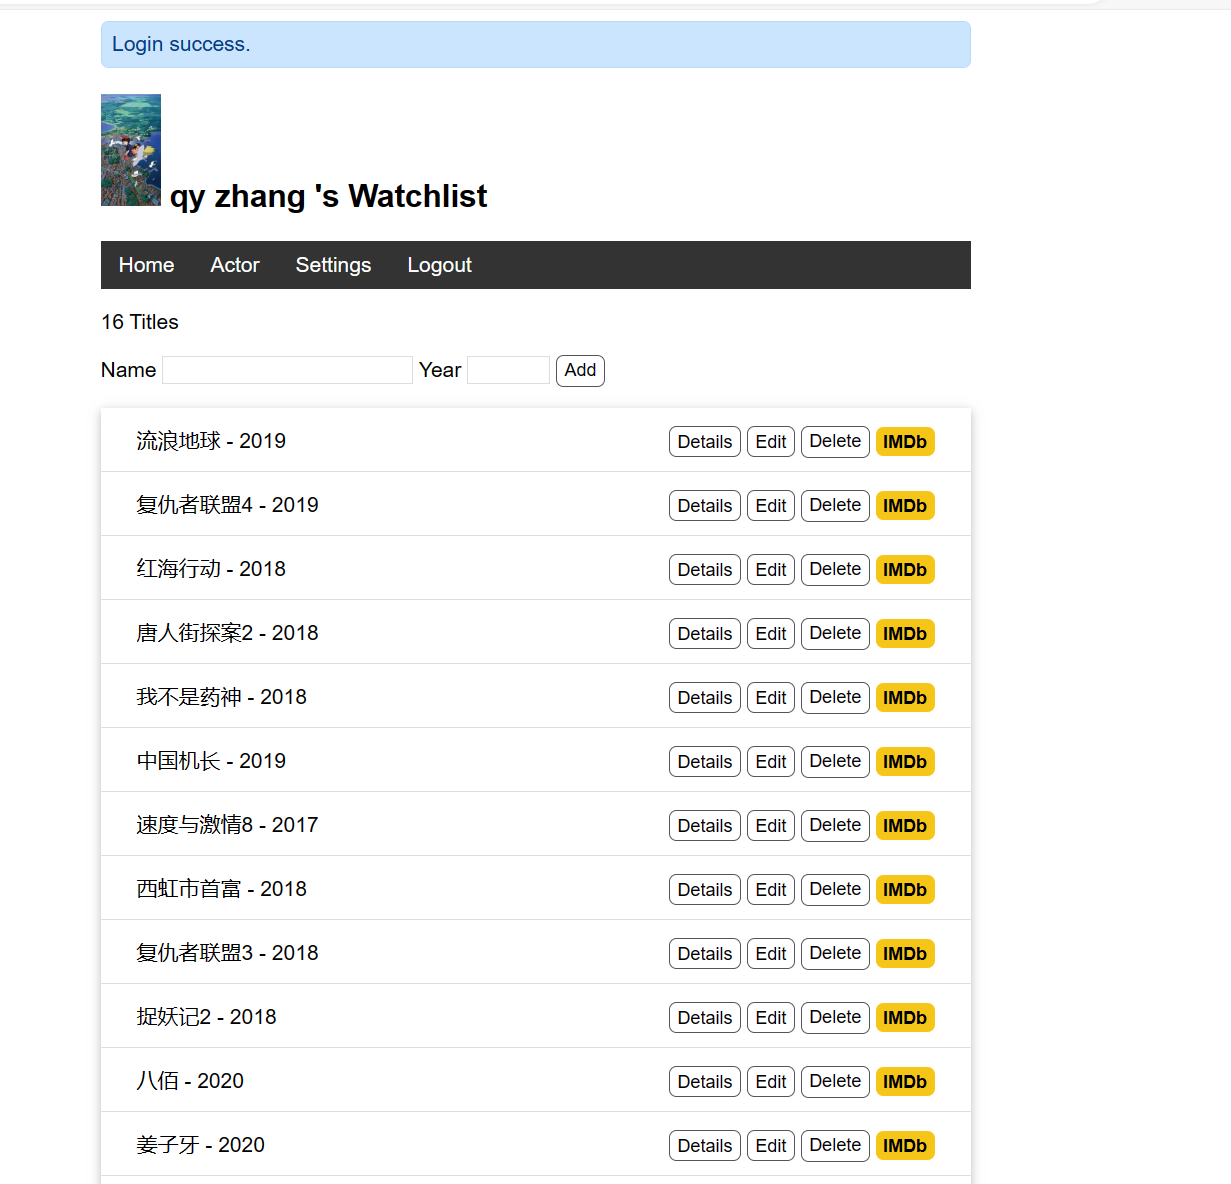
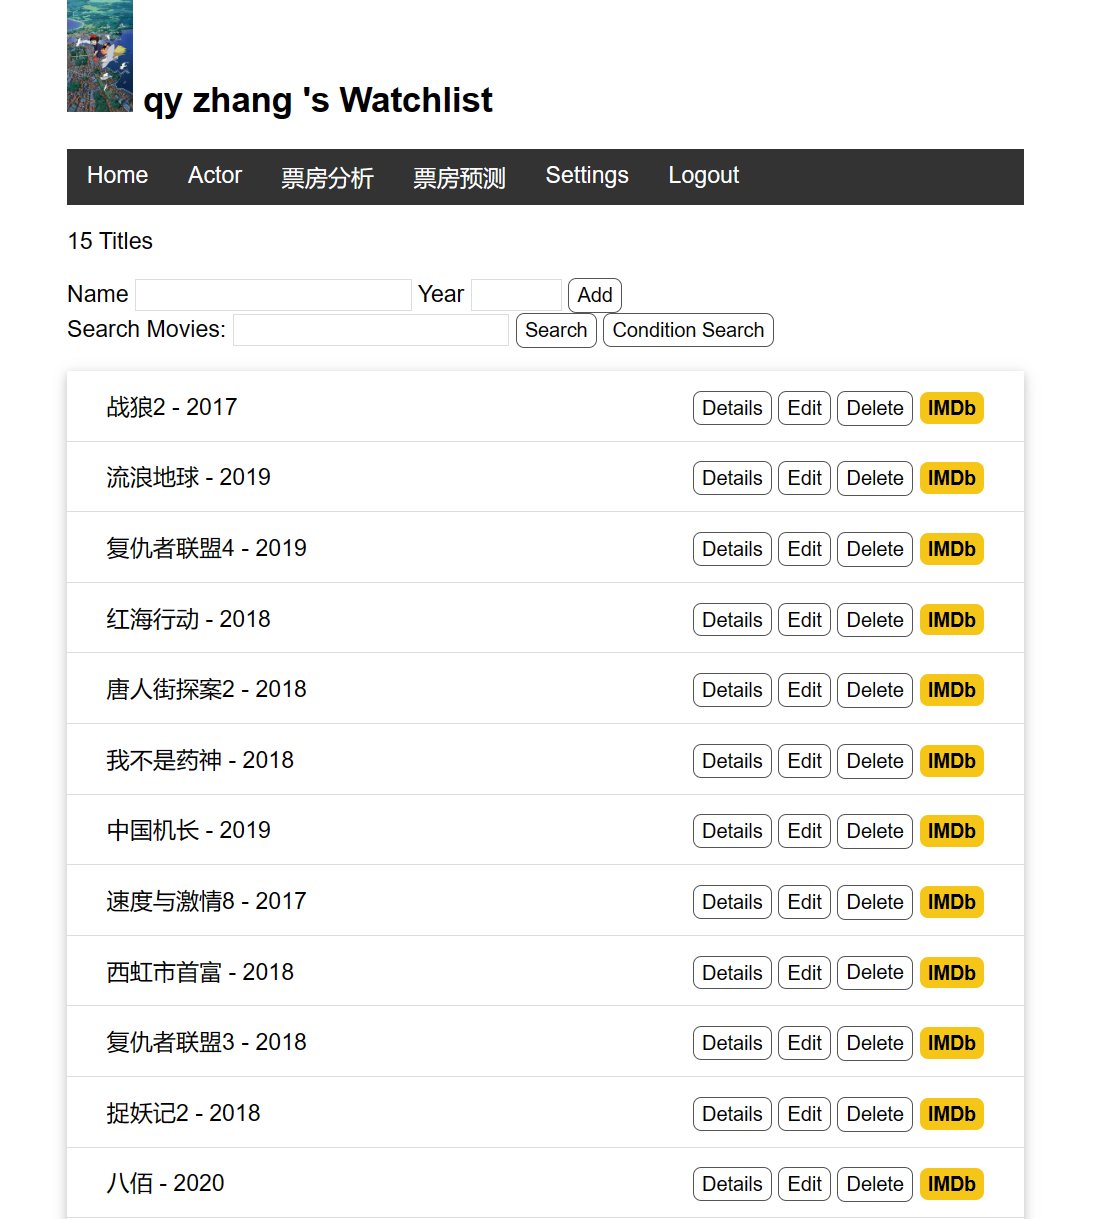
readme upadate

diff --git a/readme.md b/readme.md
@@ -80,8 +80,23 @@
 查询到的结果
 ![条件搜索2](./screenshots/condition_search2.png)
 
+### 票房分析
+#### 进入票房分析界面，可以看出每个电影的相关信息，也可以按照票房对电影进行排名
+![条件搜索1](./screenshots/box_analysis.png)
+#### 还可以对所用电影、按照类型、年份划分的电影票房的可视化
+![条件搜索1](./screenshots/box_visualization.png)
+#### 还有演员的票房分析
+![条件搜索1](./screenshots/actor_analysis.png)
+#### 还可以对所用电影、按照类型、年份划分的电影票房的可视化
+![条件搜索1](./screenshots/actor_visualization.png)
+
+### 票房预测
+#### 进入票房预测界面，可以看出每个电影的预测票房与实际票房，并看出两者之间的差异百分比
+![条件搜索1](./screenshots/box_prediction.png)
+
 ### 设置状态
 ![改变用户名等](./screenshots/settings.png)
+
 
 
 ## Installation:
